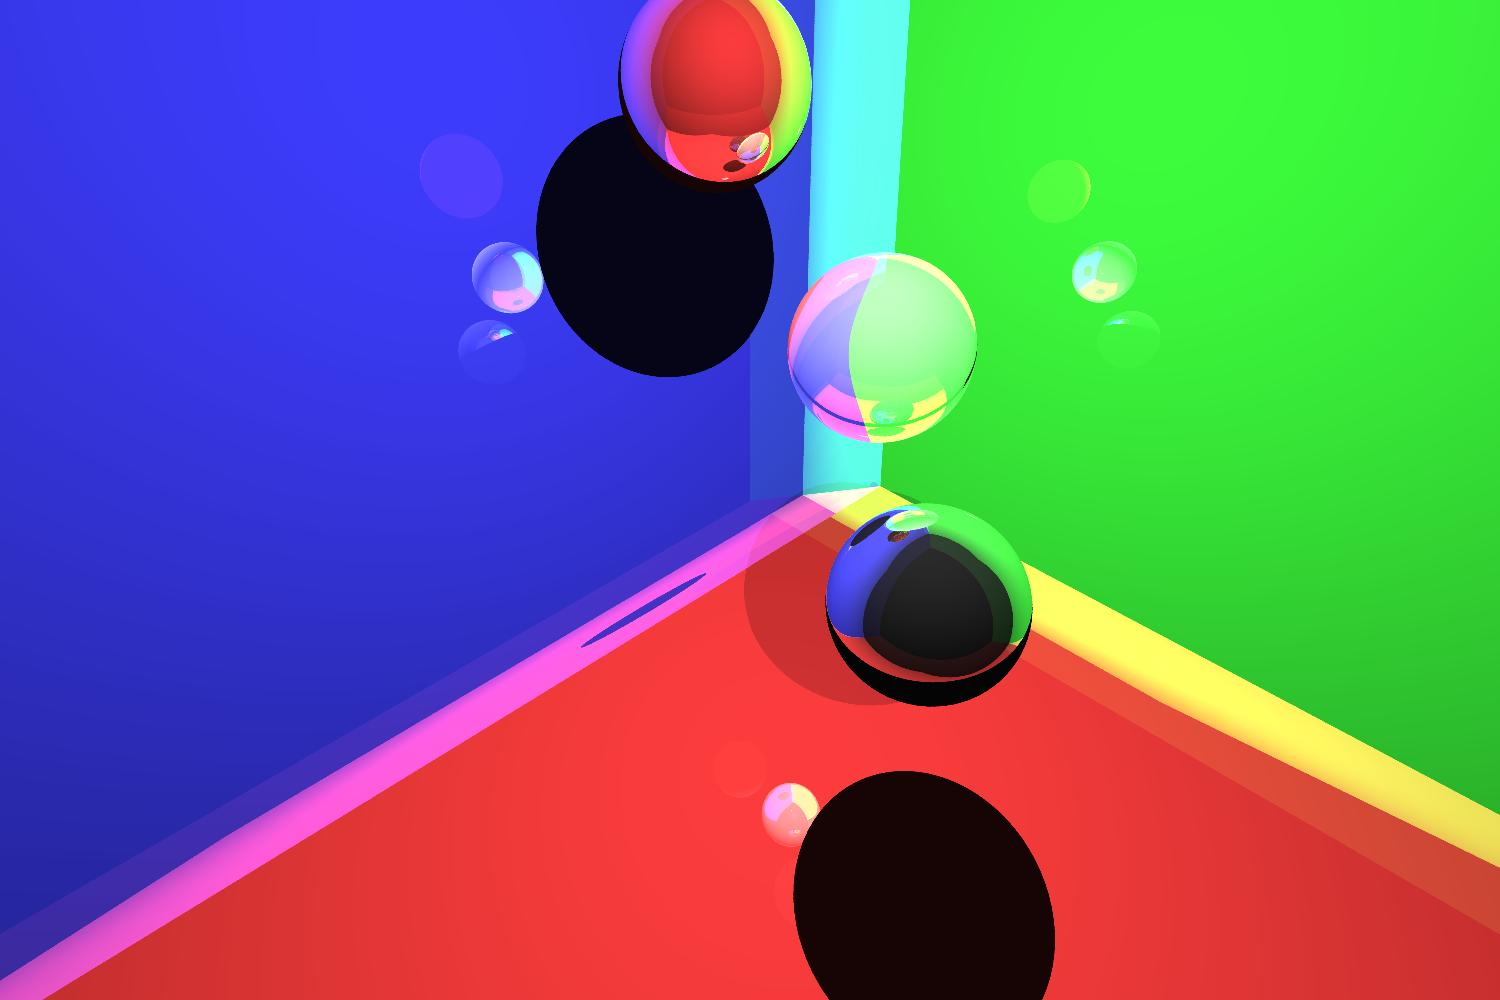
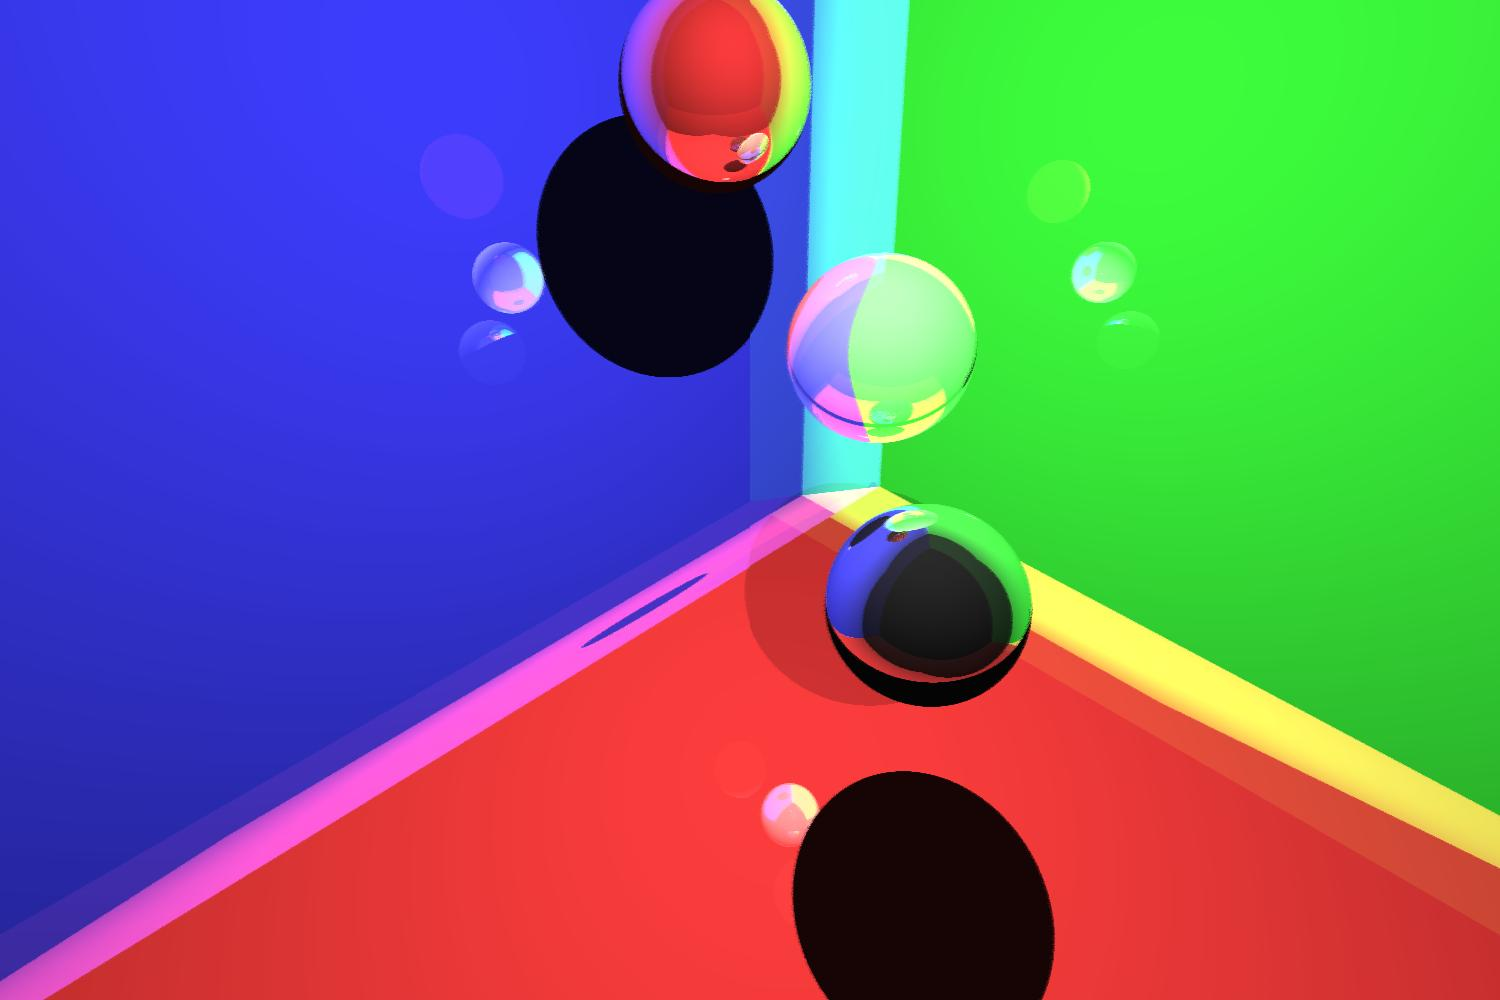
antialiasing, random

diff --git a/src/trazadorrayos/Trazador.java b/src/trazadorrayos/Trazador.java
@@ -75,20 +75,20 @@ public class Trazador {
 				for (int a = 0; a < antialiasing * antialiasing; a++) {
 					for (int b = 0; b < antialiasing / antialiasing; b++) {
 						if (xPantalla > 0) {
-							puntoPantalla.x = (Math.random() * diffAnAntialiasing)
+							puntoPantalla.x = (Math.random() * a*diffAnAntialiasing)
 									+ xPantalla;
 						}
 						else {
 							puntoPantalla.x = xPantalla
-									- (diffAnAntialiasing * Math.random());
+									- (diffAnAntialiasing * a* Math.random());
 						}
 						if (yPantalla > 0) {
-							puntoPantalla.y = (-Math.random() * diffAlAntialiasing)
+							puntoPantalla.y = (-Math.random() * b*diffAlAntialiasing)
 									+ yPantalla;
 						}
 						else {
 							puntoPantalla.y = yPantalla
-									- (diffAlAntialiasing * Math.random());
+									- (diffAlAntialiasing * b*Math.random());
 						}
 
 						puntoPantalla.z = -escena.getCamara()
